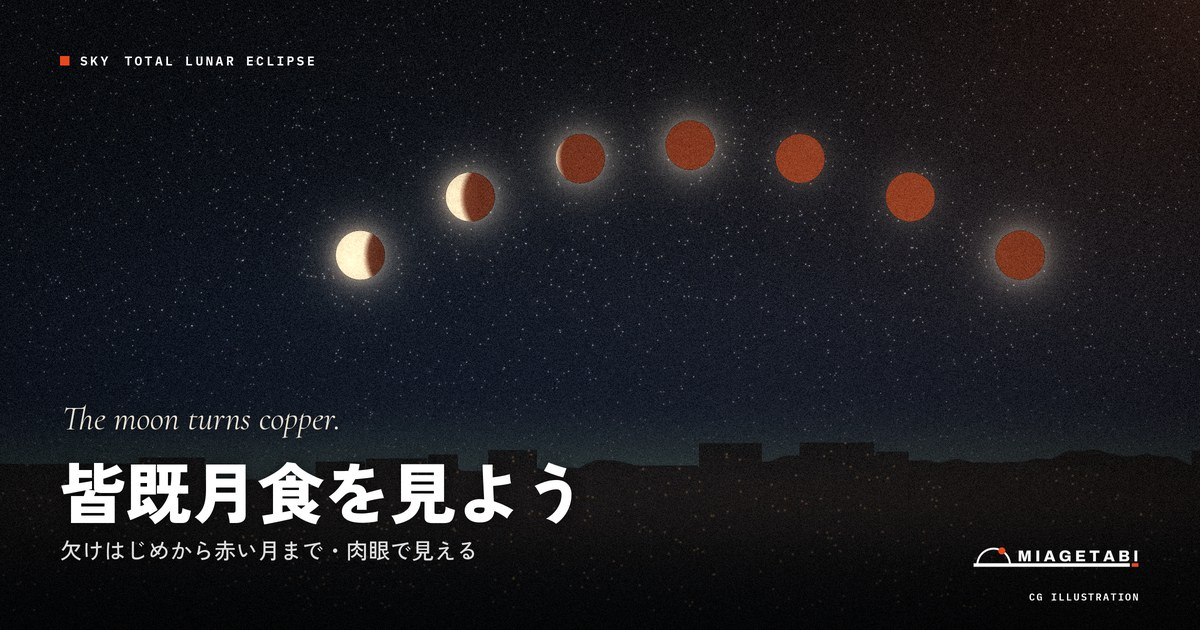
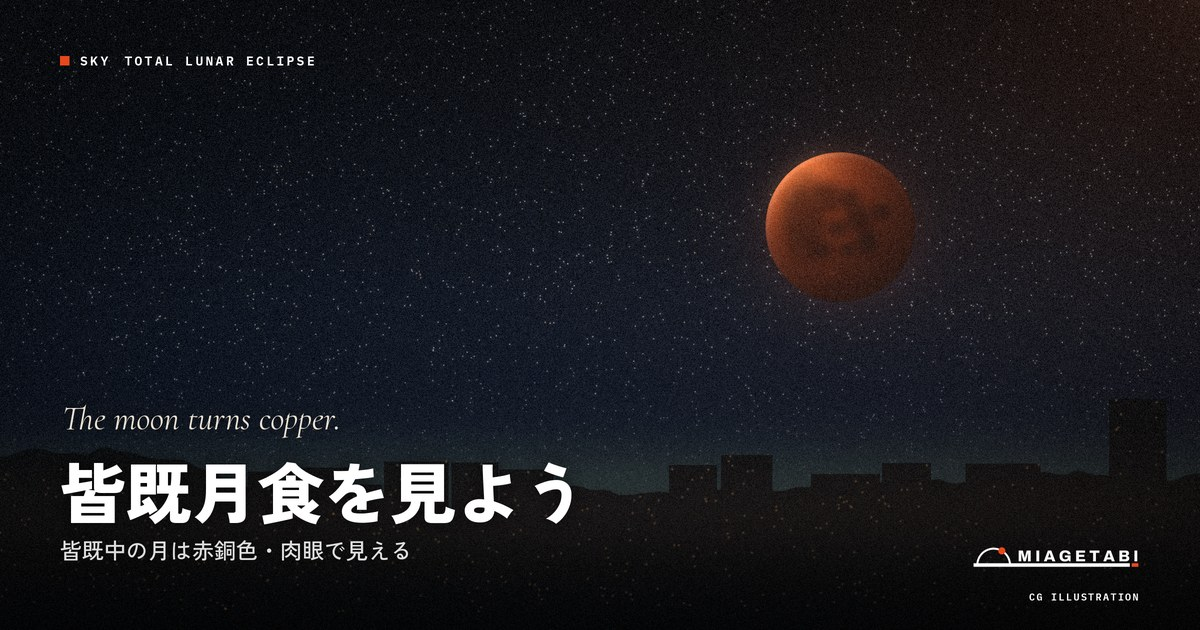
皆既月食のアイキャッチ：月は1つ、写真のような赤銅色・月の海の模様・明るい縁
Claude-Session: https://claude.ai/code/session_01QydDgKt1T3fiSRotR5U7ry

diff --git a/app/ops/eyecatch.py b/app/ops/eyecatch.py
@@ -376,10 +376,35 @@ class Scene:
             col = lit[None, None, :] * (1 - inshadow[..., None]) + red[None, None, :] * inshadow[..., None]
             img = img * (1 - disk[..., None]) + disk[..., None] * tex[..., None] * col
             return img + (np.exp(-np.clip(dd - rr, 0, None) / (rr * .6)) * (dd > rr) * (.35 if shadow < .9 else .12))[..., None] * col.mean(axis=(0, 1))
-        if not sequence: return moon(img, W * cx, H * cy, r, 1.0)
+        if not sequence: return self.blood_moon(img, W * cx, H * cy, r)
         for i, sh in enumerate((0, .25, .5, .75, 1, 1, .75)):
             t = i / 6; img = moon(img, W * (.30 + .55 * t), H * (.55 - .32 * np.sin(np.pi * (.15 + .7 * t))), r * .55, sh)
         return img
+
+    def blood_moon(self, img, mx, my, r):
+        """皆既中の月（写真のように）：赤銅色、海（暗い模様）が見え、影の中心から遠い側の縁が明るく、わずかに青白い帯"""
+        y, x = np.mgrid[0:H, 0:W].astype(np.float32); dx, dy = (x - mx) / r, (y - my) / r; rr = np.sqrt(dx ** 2 + dy ** 2)
+        disk = np.clip((1 - rr) * r, 0, 1)
+        # 月の海：大きな低周波の暗い斑点（月面の模様のように）
+        # 実際の月の表側に似た配置（左上に広い嵐の大洋・雨の海、右上に晴れの海・静かの海・危難の海、下半分は明るい高地）
+        blob = np.zeros_like(rr); edge_n = self.noise((10, 5), (1, .5))
+        for ox, oy, sx_, sy_ in ((-.48, -.10, .22, .38), (-.22, -.38, .20, .15), (.10, -.36, .12, .11), (.24, -.12, .13, .14), (.55, -.20, .09, .08),
+                                 (.36, .18, .10, .14), (-.05, .02, .10, .08), (-.30, .30, .14, .10), (.10, .30, .07, .06)):
+            blob = np.maximum(blob, np.exp(-(((dx - ox) / (sx_ * 1.35)) ** 2 + ((dy - oy) / (sy_ * 1.35)) ** 2) / 2))
+        maria = self.blur(np.clip((blob + (edge_n - .5) * .4 - .35) * 2.2, 0, 1), r * .04) * .5
+        tycho = np.exp(-((dx + .12) ** 2 + (dy - .62) ** 2) / (2 * .025 ** 2)) * .5
+        fine = self.noise((14, 6, 3), (1, .6, .4))
+        alb = np.clip(1 - maria + tycho, .3, 1.3) * (.82 + .18 * fine)
+        # 影の中心は右下寄り。そこから遠い左上の縁ほど明るい
+        lim = np.clip((-.55 * dx - .65 * dy + 1) / 2, 0, 1) ** 2.2
+        limb = 1 - .35 * rr ** 2  # 周辺減光
+        col = np.array([.50, .16, .07])[None, None, :] * (.35 + 1.7 * lim[..., None]) + np.array([.98, .60, .28])[None, None, :] * (lim[..., None] ** 3) * 1.1
+        col = col * (alb * limb)[..., None]
+        edge = np.exp(-((rr - .97) / .04) ** 2) * lim ** 1.5  # 縁のかすかな青白い帯（オゾン層を通った光）
+        col = col + edge[..., None] * np.array([.35, .45, .55]) * .35
+        img = img * (1 - disk[..., None]) + disk[..., None] * col
+        glow = np.exp(-np.clip(rr - 1, 0, None) / .35) * (rr > 1) * .10
+        return img + glow[..., None] * np.array([.8, .35, .2])
 
     def m_comet(self, img, cx=.68, cy=.30, angle=-35, length=.30):
         """彗星：明るい頭、扇形に広がる黄色いちりの尾、まっすぐで細い青いイオンの尾"""

diff --git a/app/ops/eyecatch-manual.md b/app/ops/eyecatch-manual.md
@@ -63,7 +63,7 @@
       | 射点に立つ機体 | `pad`（`bluehour`・`dusk`。海の向こう） | 打ち上げ前・予定・延期の記事 |
       | 見学場の人々 | `deck` ＋ 遠くの `pad` か `trail` | 見学場のガイド |
       | 月の前の光跡 | `moon`（`r` 100〜130）＋ `trail`（`moonlit`） | 月が明るい夜の打ち上げ |
-    - 天体の追加：`eclipse`（皆既月食の赤い月。`sequence: true` で欠けていく月を弧に並べた合成。`cx`・`cy`・`r`）、`comet`（彗星。`cx`・`cy` が頭、`angle` が尾の向き、`length`）
+    - 天体の追加：`eclipse`（皆既中の赤銅色の月を**1つだけ**、写真のように。`cx`・`cy`・`r`：120〜160。欠けていく月を並べる合成は使わない）、`comet`（彗星。`cx`・`cy` が頭、`angle` が尾の向き、`length`）
     - 施設紹介（`category: "spot"`）：`lighthouse`（岬の灯台と光の帯。`x`・`size`・`beam`：-1 左へ／1 右へ）、`observatory`（スリットが開いて中が赤く灯る天文台。`x`・`size`）、`planetarium`（ドームのある科学館。窓と街灯の明かり）、`deck`（展望デッキの手すりと、海を見る人の影。`people`：1〜4）。見学場なら `deck` と遠くの `pad` を合わせる
     - 持ち物紹介（`category: "gear"`）：手前に物を置く。`chair`（折りたたみ椅子）・`backpack`・`thermos`（水筒）・`mug`（湯気の立つカップ）・`binoculars`（こちらを向いた双眼鏡）・`bench`（`x0` から右へのベンチ。物を上に置くときは同じ `y`）・`headlamp`（赤いライト。まわりの物の縁を赤く照らす。`color` で色）・`tent`（中の明かりで光るテント。`x`・`y`・`size`）。それぞれ `x`・`y`（置く高さ）・`size`。**物は右半分（`x` 0.55〜0.92）に置き、`y` は 0.72〜0.86**（下は見出しと重なるため）。`horizon` は 0.62〜0.66 に上げる
   - `bignum`：号機・年など大きく見せたい数字（無くてもよい）。`date`・`time` は日時が公式に確定しているイベントだけ。
